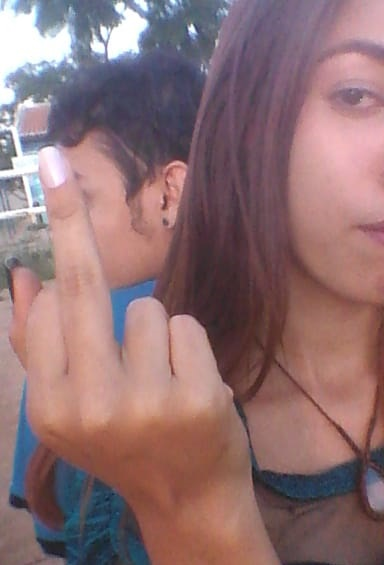
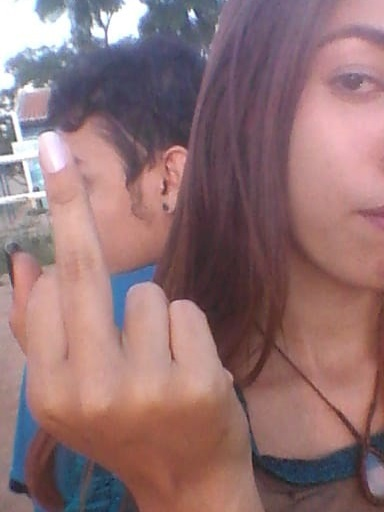
mudanças na galeria

diff --git a/vic/style.css b/vic/style.css
@@ -125,7 +125,7 @@ body {
         border: 3px solid var(--sec-color);
         border-radius: 5px;
         overflow: hidden;
-        max-width: 80%;
+        max-width: 100%;
         margin-top: 15px;
         margin-bottom: 15px;
         transition: transform .5 ease-in-out;
@@ -133,8 +133,8 @@ body {
     }
 
     .img-container {
-        width: 350px;
-        height: 550px; /* 450 */
+        width: 384px;
+        height: 512px; /* 450 */
         display: flex;
         transition: transform .5s ease-in;
         transform: translateX(0);
@@ -142,7 +142,6 @@ body {
 
     .img-container img {
         width: 100%;
-        object-fit: cover;
     }
 } 
 

diff --git a/vic/script.js b/vic/script.js
@@ -13,7 +13,7 @@ function changeImage() {
         index = 0;
     }
 
-    imgContainer.style.transform = `translateX(${-index * 350}px)`;
+    imgContainer.style.transform = `translateX(${-index * 384}px)`;
 }
 
 function play() {
